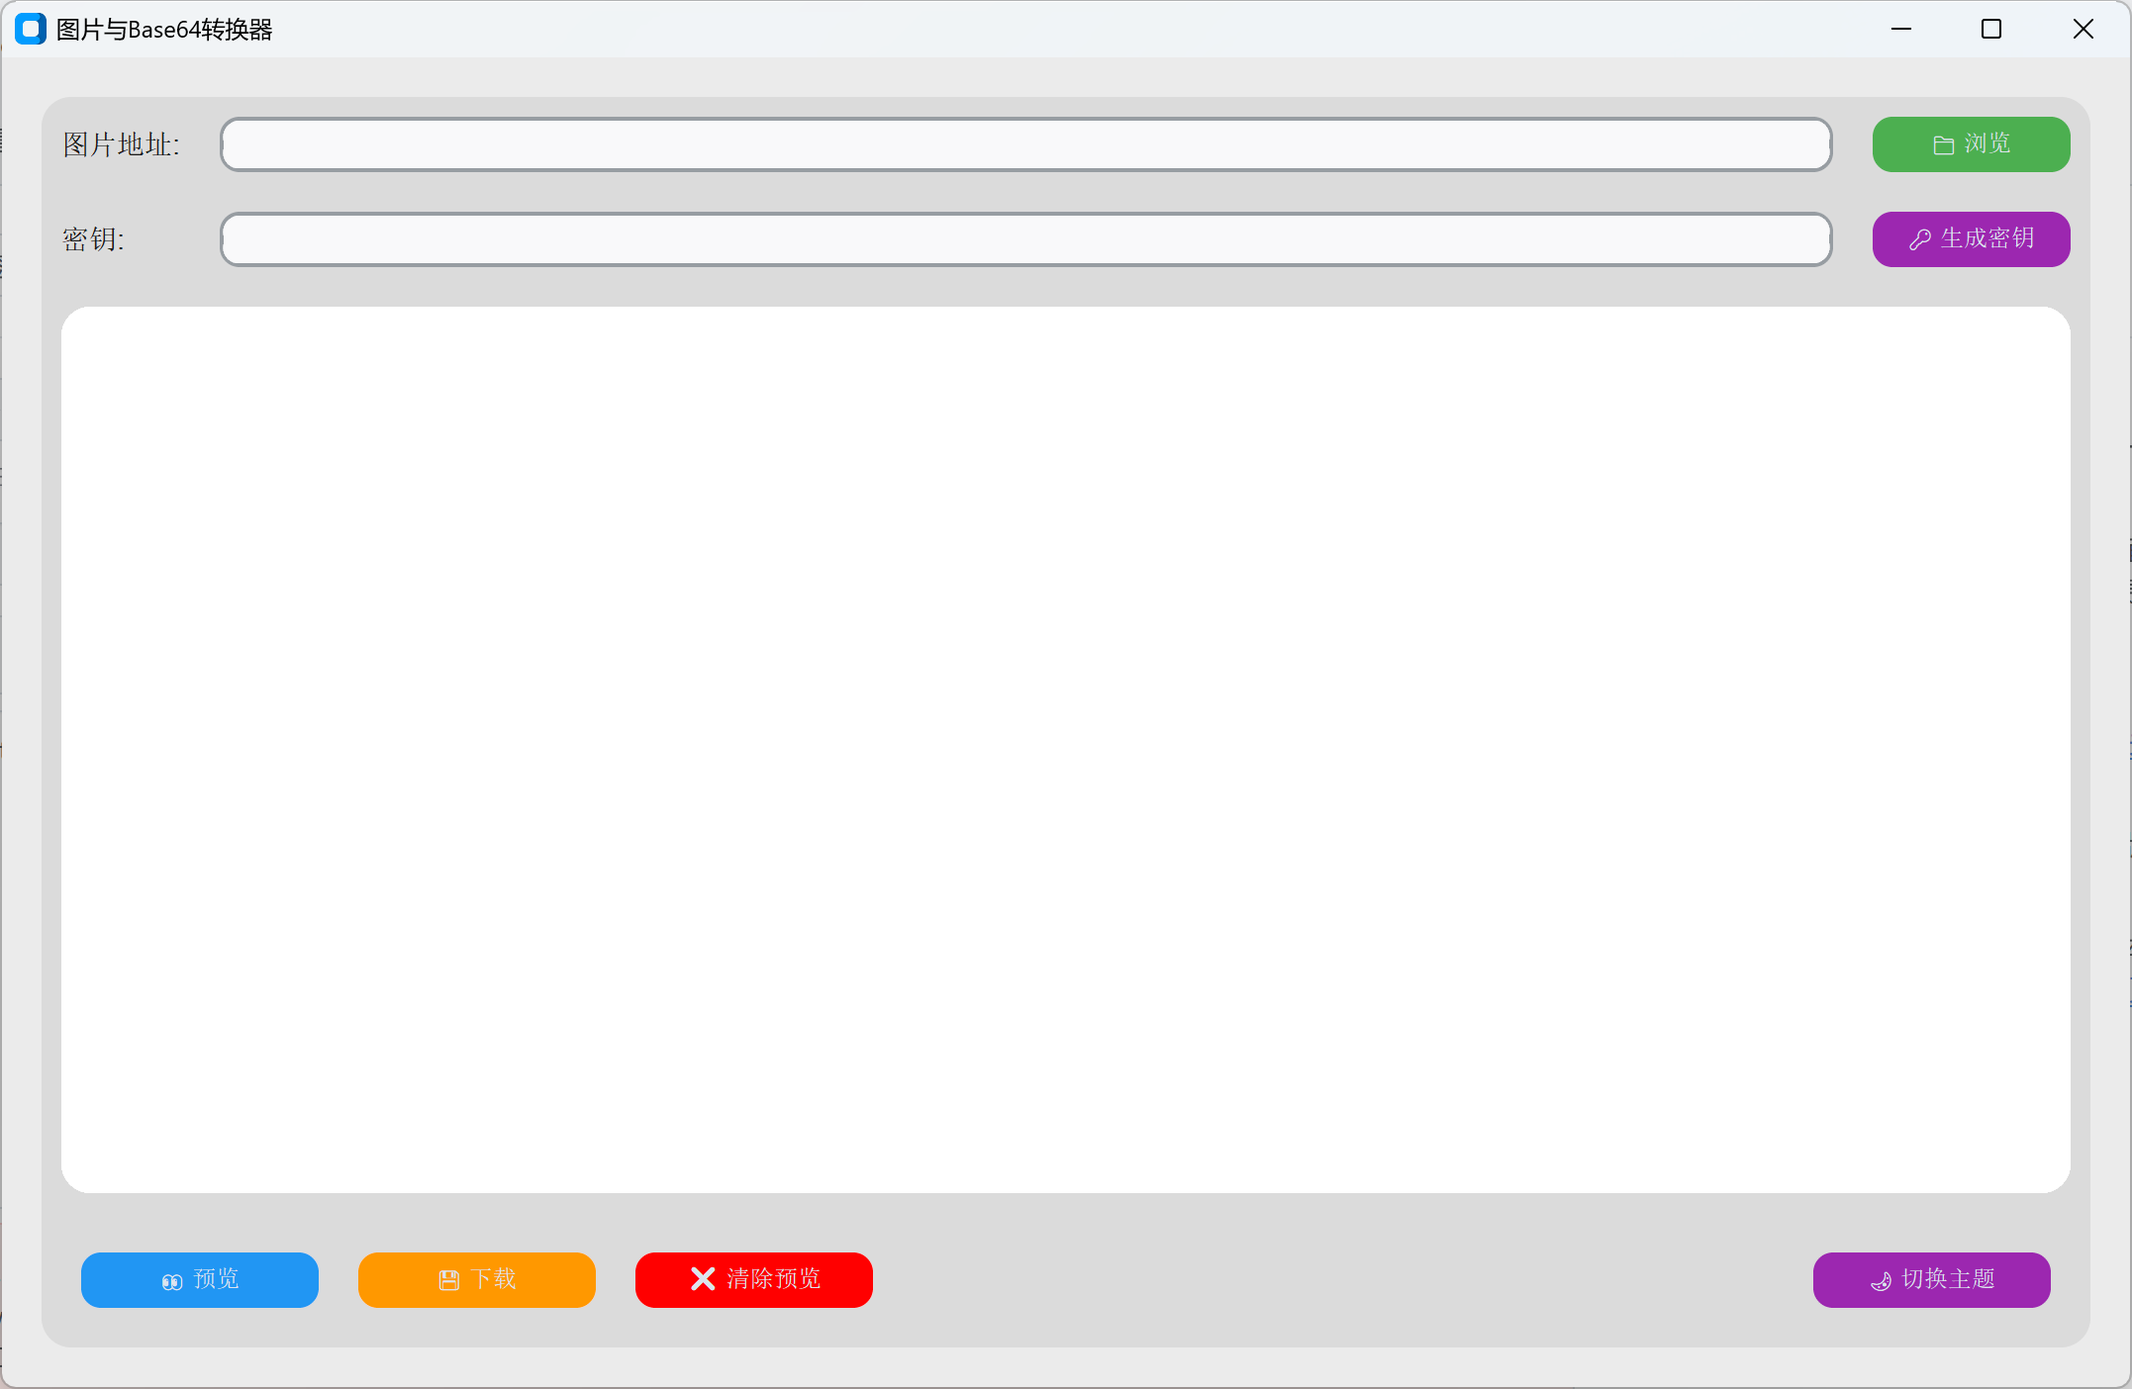
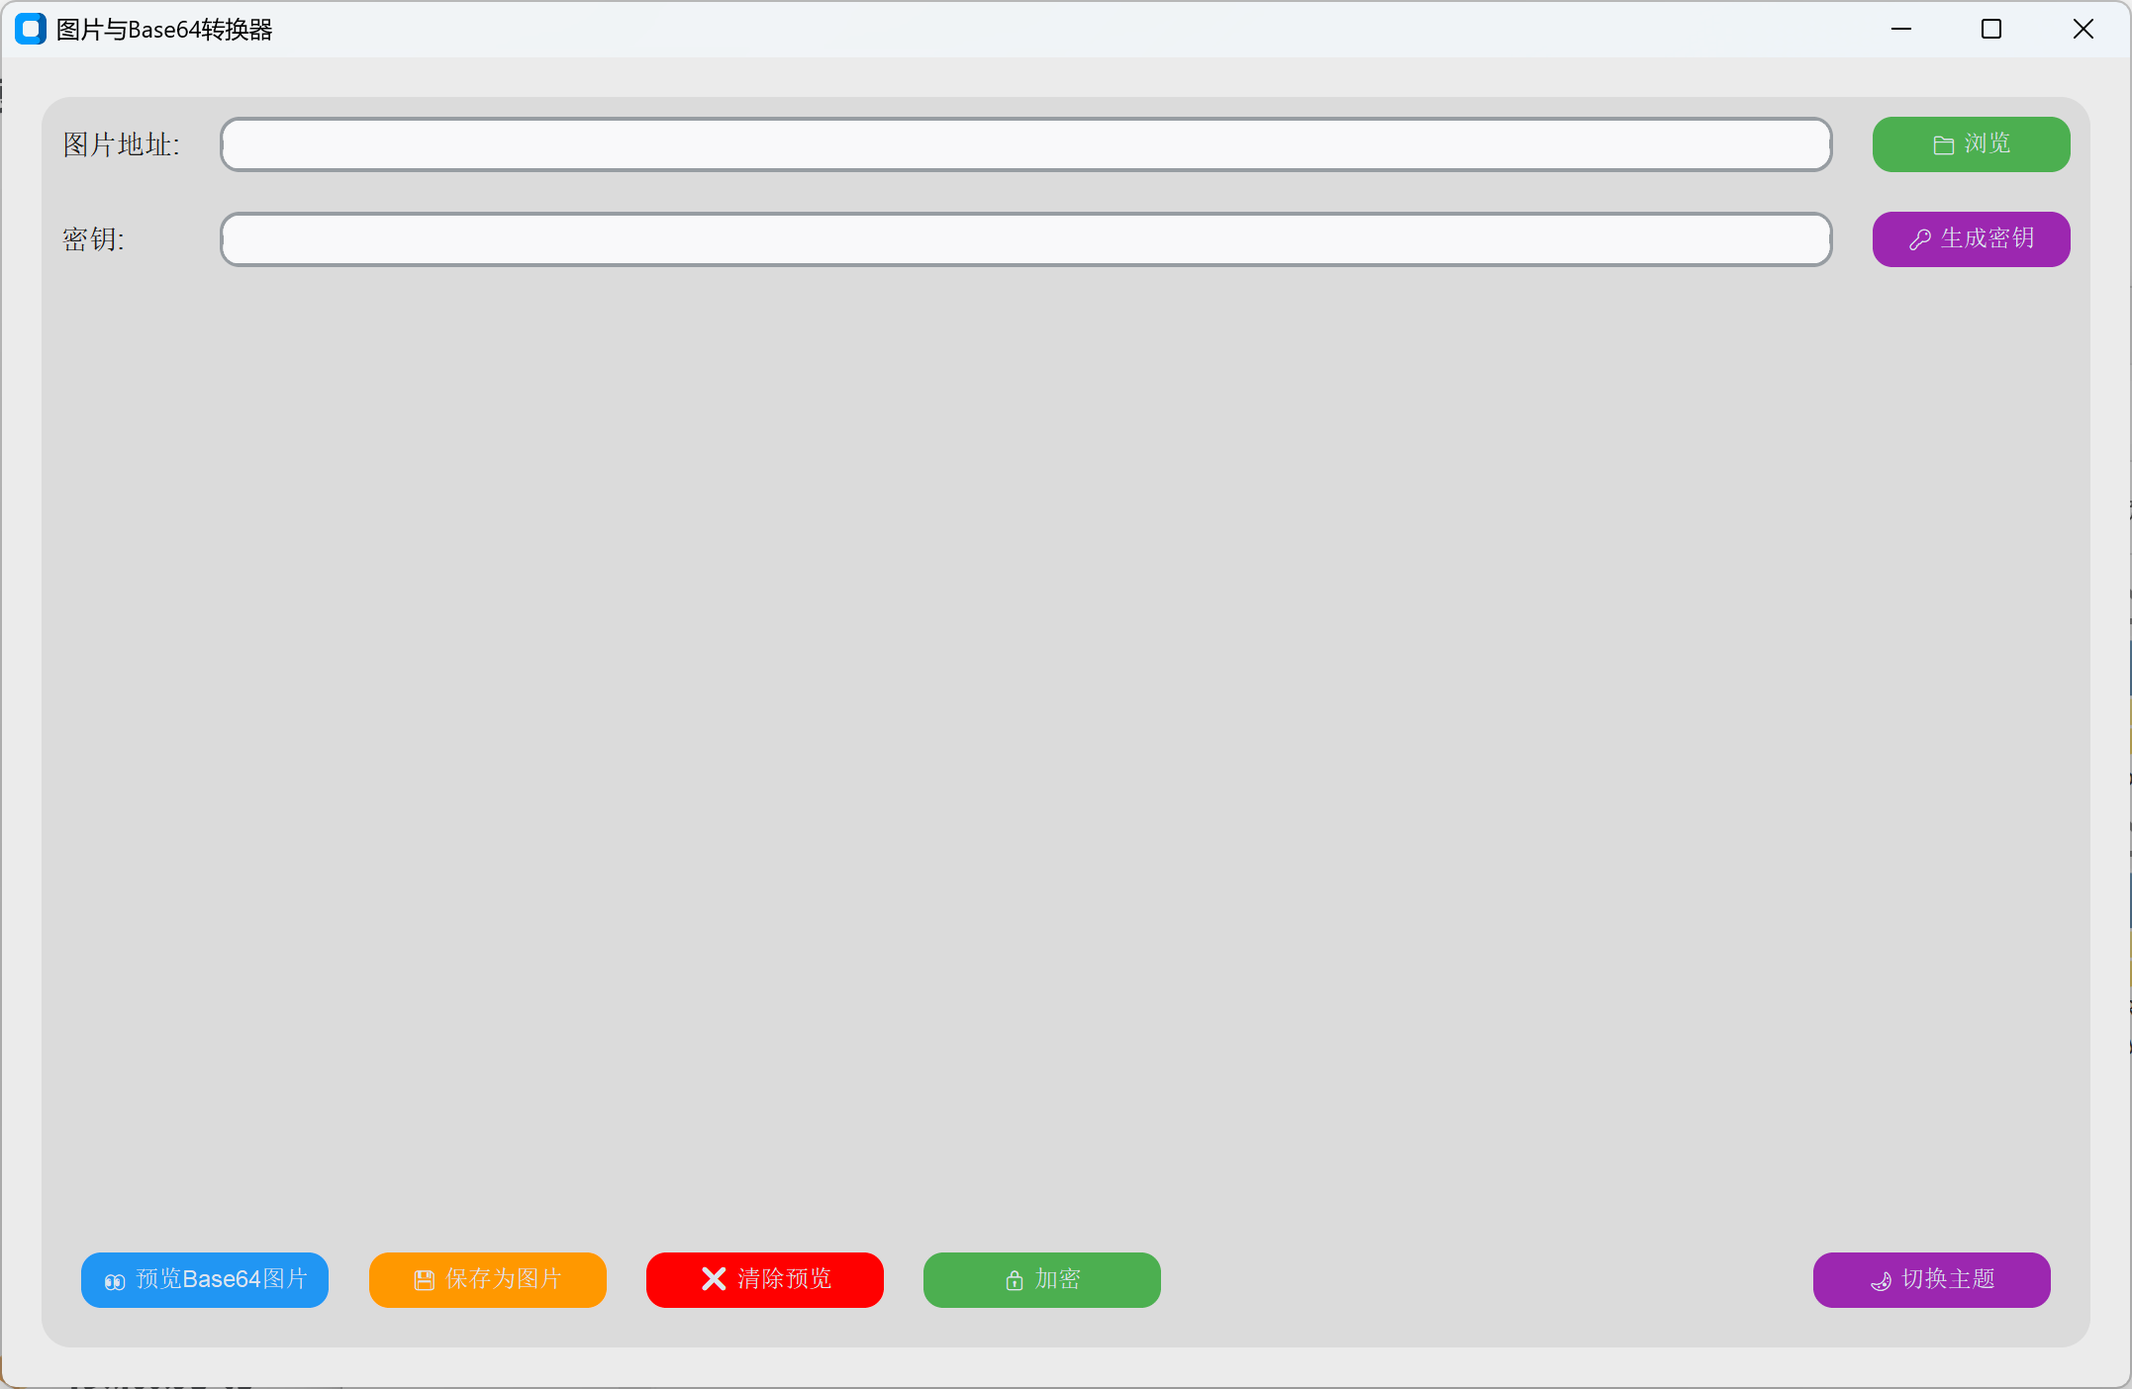
Add files via upload

diff --git a/main.py b/main.py
@@ -1,0 +1,367 @@
+import base64
+import io
+import os
+from PIL import Image, ImageTk
+import customtkinter as ctk
+from tkinter import filedialog, messagebox
+from Crypto.Cipher import AES
+from Crypto.Util.Padding import pad, unpad
+from Crypto.Random import get_random_bytes
+
+class ImageBase64Converter:
+    def __init__(self, root):
+        self.root = root
+        self.root.title("图片与Base64转换器")
+        self.file_path = ''
+
+        # 设置主题和颜色模式
+        ctk.set_appearance_mode("System")  # 可选：System, Dark, Light
+        ctk.set_default_color_theme("blue")  # 可选：blue, green, dark-blue
+
+        # 获取显示器分辨率
+        screen_width = self.root.winfo_screenwidth()
+        screen_height = self.root.winfo_screenheight()
+
+        # 设置窗口初始大小为显示器分辨率的 70%
+        self.window_width = int(screen_width * 0.7)
+        self.window_height = int(screen_height * 0.7)
+        self.root.geometry(f"{self.window_width}x{self.window_height}")
+
+        # 存储原始图片和调整后的图片
+        self.original_image = None
+        self.resized_image = None
+
+        # 设置图片的最小和最大显示尺寸
+        self.min_image_size = 100  # 最小显示尺寸（宽度或高度）
+        self.max_image_size = 800  # 最大显示尺寸（宽度或高度）
+
+        # 创建 UI 组件
+        self.create_widgets()
+
+        # 绑定窗口大小变化事件
+        self.root.bind("<Configure>", self.resize_ui)
+
+    def create_widgets(self):
+        """创建并初始化 UI 组件"""
+        # 主容器
+        self.main_frame = ctk.CTkFrame(self.root, corner_radius=15)
+        self.main_frame.pack(fill="both", expand=True, padx=20, pady=20)
+
+        # 图片地址输入栏
+        self.image_path_label = ctk.CTkLabel(self.main_frame, text="图片地址:", font=("Arial", 14))
+        self.image_path_label.grid(row=0, column=0, padx=10, pady=10, sticky="w")
+
+        self.image_path_entry = ctk.CTkEntry(self.main_frame, font=("Arial", 12), width=400, corner_radius=10)
+        self.image_path_entry.grid(row=0, column=1, padx=10, pady=10, sticky="ew")
+
+        self.browse_button = ctk.CTkButton(
+            self.main_frame, text="📁 浏览", command=self.browse_image, font=("Arial", 12), width=100, corner_radius=10,
+            fg_color="#4CAF50", hover_color="#45a049"
+        )
+        self.browse_button.grid(row=0, column=2, padx=10, pady=10)
+
+        # 密钥输入栏
+        self.key_label = ctk.CTkLabel(self.main_frame, text="密钥:", font=("Arial", 14))
+        self.key_label.grid(row=1, column=0, padx=10, pady=10, sticky="w")
+
+        self.key_entry = ctk.CTkEntry(self.main_frame, font=("Arial", 12), width=400, corner_radius=10, show="")
+        self.key_entry.grid(row=1, column=1, padx=10, pady=10, sticky="ew")
+
+        self.generate_key_button = ctk.CTkButton(
+            self.main_frame, text="🔑 生成密钥", command=self.generate_key, font=("Arial", 12), width=100, corner_radius=10,
+            fg_color="#9C27B0", hover_color="#8e24aa"
+        )
+        self.generate_key_button.grid(row=1, column=2, padx=10, pady=10)
+
+        # 显示图片的区域
+        self.image_label = ctk.CTkLabel(
+            self.main_frame, text="", width=self.window_width - 40, height=self.window_height - 200, corner_radius=15
+        )
+        self.image_label.grid(row=2, column=0, columnspan=3, padx=10, pady=10, sticky="nsew")
+
+        # 动态设置图片显示区域的背景颜色
+        # self.update_image_label_theme()
+
+        # 按钮区域
+        self.button_frame = ctk.CTkFrame(self.main_frame, corner_radius=15, fg_color="transparent")
+        self.button_frame.grid(row=3, column=0, columnspan=3, padx=10, pady=10, sticky="ew")
+
+        self.preview_button = ctk.CTkButton(
+            self.button_frame, text="👀 预览Base64图片", command=self.preview_image, font=("Arial", 12), width=120, corner_radius=10,
+            fg_color="#2196F3", hover_color="#1e88e5"
+        )
+        self.preview_button.pack(side="left", padx=10, pady=10)
+
+        self.download_button = ctk.CTkButton(
+            self.button_frame, text="💾 保存为图片", command=self.download_image, font=("Arial", 12), width=120, corner_radius=10,
+            fg_color="#FF9800", hover_color="#fb8c00"
+        )
+        self.download_button.pack(side="left", padx=10, pady=10)
+
+        # 清除预览按钮
+        self.clear_button = ctk.CTkButton(
+            self.button_frame, text="❌ 清除预览", command=self.clear_preview, font=("Arial", 12), width=120, corner_radius=10,
+            fg_color="#FF0000", hover_color="#cc0000"
+        )
+        self.clear_button.pack(side="left", padx=10, pady=10)
+
+        # 开始加密
+        self.encrypt_button = ctk.CTkButton(
+            self.button_frame, text="🔒 加密", command=self.encrypt_image, font=("Arial", 12), width=120, corner_radius=10,
+            fg_color="#4CAF50", hover_color="#45a049"
+        )
+        self.encrypt_button.pack(side="left", padx=10, pady=10)
+
+        # 主题切换按钮
+        self.theme_button = ctk.CTkButton(
+            self.button_frame, text="🌙 切换主题", command=self.toggle_theme, font=("Arial", 12), width=120, corner_radius=10,
+            fg_color="#9C27B0", hover_color="#8e24aa"
+        )
+        self.theme_button.pack(side="right", padx=10, pady=10)
+
+        # 配置网格布局的权重
+        self.main_frame.grid_columnconfigure(1, weight=1)
+        self.main_frame.grid_rowconfigure(2, weight=1)
+
+    def clear_preview(self):
+        """清除预览的图片"""
+        self.original_image = None
+        self.resized_image = None
+        self.image_label.configure(image=None)  # 清除显示的图片
+        self.image_label.image = None  # 清除图片引用
+        messagebox.showinfo("提示", "预览已清除！")
+
+    def encrypt_image(self):
+        """加密图片"""
+        if self.file_path:
+            # 加密并保存加密后的图片
+            self.convert_image_to_base64(self.file_path)
+            # messagebox.showinfo("提示", "图片加密成功！")
+        else:
+            messagebox.showwarning("警告", "请先选择图片！")
+            
+    # def update_image_label_theme(self):
+    #     """根据当前主题更新图片显示区域的背景颜色"""
+    #     current_mode = ctk.get_appearance_mode()
+    #     if current_mode == "Light":
+    #         self.image_label.configure(fg_color="#ffffff", text_color="#000000")  # 浅色主题
+    #     else:
+    #         self.image_label.configure(fg_color="#2e2e2e", text_color="#ffffff")  # 深色主题
+
+    def resize_ui(self, event=None):
+        """根据窗口大小动态调整 UI 布局"""
+        window_width = self.root.winfo_width()
+        window_height = self.root.winfo_height()
+
+        # 调整图片显示区域的大小
+        self.image_label.configure(width=window_width - 40, height=window_height - 200)
+
+    def browse_image(self):
+        """浏览并选择图片文件"""
+        file_path = filedialog.askopenfilename(filetypes=[("Image Files", "*.png;*.jpg;*.jpeg;*.bmp;*.gif")])
+        if file_path:
+            self.file_path = file_path
+        else:
+            return
+        file_size = os.path.getsize(self.file_path) / (1024 * 1024)  # 文件大小（MB）
+        if file_size > 10:  # 限制图片大小为 10MB
+            messagebox.showwarning("警告", "图片文件过大，可能发生卡顿。")
+        self.image_path_entry.delete(0, "end")
+        self.image_path_entry.insert(0, self.file_path)
+
+    def generate_key(self):
+        """生成随机密钥"""
+        key = get_random_bytes(16)  # 生成 16 字节的随机密钥
+        self.key_entry.delete(0, "end")
+        self.key_entry.insert(0, key.hex())  # 以十六进制显示密钥
+
+    def encrypt_data(self, data, key):
+        """使用 AES 加密数据"""
+        cipher = AES.new(key, AES.MODE_CBC)
+        ct_bytes = cipher.encrypt(pad(data, AES.block_size))
+        return cipher.iv + ct_bytes  # 返回 IV + 密文
+
+    def decrypt_data(self, encrypted_data, key):
+        """使用 AES 解密数据"""
+        iv = encrypted_data[:AES.block_size]  # 提取 IV
+        ct = encrypted_data[AES.block_size:]  # 提取密文
+        cipher = AES.new(key, AES.MODE_CBC, iv)
+        return unpad(cipher.decrypt(ct), AES.block_size)  # 返回解密后的数据
+
+    def get_key(self):
+        """获取密钥"""
+        key = self.key_entry.get().strip()
+        if not key:
+            return None  # 没有输入密钥时返回 None
+        if len(key) != 32:  # 128 位密钥
+            messagebox.showwarning("警告", "密钥长度必须为 32 个字符！")
+            return 'wrong'
+        try:
+            key_b = bytes.fromhex(key)
+            return key_b
+        except ValueError:
+            messagebox.showwarning("警告", "密钥必须是有效的十六进制字符串！")
+            return 'wrong'
+
+    def convert_image_to_base64(self, image_path):
+        """将图片转换为Base64代码并保存到用户选择的位置"""
+        try:
+            with open(image_path, "rb") as image_file:
+                image_data = image_file.read()
+
+            key = self.get_key()
+            if key is None:
+                # 如果没有密钥，则直接进行 Base64 编码
+                base64_code = base64.b64encode(image_data).decode("utf-8")
+            elif key == 'wrong':
+                return
+            else:
+                # 如果有密钥，则加密图片数据
+                encrypted_data = self.encrypt_data(image_data, key)
+                base64_code = base64.b64encode(encrypted_data).decode("utf-8")
+                
+            # 获取图片文件名（不含扩展名）
+            image_name = os.path.splitext(os.path.basename(image_path))[0]
+
+            # 弹出文件保存对话框，让用户选择保存位置
+            save_path = filedialog.asksaveasfilename(
+                defaultextension=".txt",
+                filetypes=[("Text Files", "*.txt")],
+                title="保存 Base64 代码",
+                initialfile=image_name  # 自动填充图片文件名
+            )
+            if save_path:
+                with open(save_path, "w") as file:
+                    file.write(base64_code)
+                messagebox.showinfo("成功", f"Base64 代码已保存到：\n{save_path}")
+
+        except Exception as e:
+            messagebox.showerror("错误", f"无法读取图片: {e}")
+
+    def preview_image(self):
+        """从用户选择的文件读取Base64代码并显示图片"""
+        try:
+            # 打开文件选择对话框，让用户选择保存的 Base64 文件
+            self.file_path = filedialog.askopenfilename(filetypes=[("Text Files", "*.txt")])
+            if not self.file_path:
+                return
+
+            # 读取文件内容
+            with open(self.file_path, "r") as file:
+                base64_code = file.read().strip()
+
+            # 获取密钥
+            key = self.get_key()
+            if key is None:
+                # 如果没有密钥，则直接进行 Base64 解码
+                decrypted_data = base64.b64decode(base64_code)
+            elif(key == 'wrong'):
+                return
+            else:
+                # 如果有密钥，则解密数据
+                encrypted_data = base64.b64decode(base64_code)
+                decrypted_data = self.decrypt_data(encrypted_data, key)
+                
+
+            # 显示图片
+            self.original_image = Image.open(io.BytesIO(decrypted_data))
+            self.resize_image()  # 初始调整图片大小
+        except Exception as e:
+            messagebox.showerror("错误", f"无法显示图片: {e}")
+
+    def download_image(self):
+        """下载Base64代码对应的图片"""
+        try:
+            if self.original_image is None:
+                # 打开文件选择对话框，让用户选择保存的 Base64 文件
+                self.file_path = filedialog.askopenfilename(filetypes=[("Text Files", "*.txt")])
+                if not self.file_path:
+                    return
+
+                # 读取文件内容
+                with open(self.file_path, "r") as file:
+                    base64_code = file.read().strip()
+
+                # 获取密钥
+                key = self.get_key()
+                if key is None:
+                    # 如果没有密钥，则直接进行 Base64 解码
+                    decrypted_data = base64.b64decode(base64_code)
+                elif(key == 'wrong'):
+                    return
+                else:
+                    # 如果有密钥，则解密数据
+                    encrypted_data = base64.b64decode(base64_code)
+                    decrypted_data = self.decrypt_data(encrypted_data, key)
+                    
+
+                # 获取文件名（不含扩展名）
+                file_name = os.path.splitext(os.path.basename(self.file_path))[0]
+
+                # 保存图片
+                save_path = filedialog.asksaveasfilename(
+                    defaultextension=".png",
+                    filetypes=[("PNG Files", "*.png"), ("JPEG Files", "*.jpg")],
+                    title="保存图片",
+                    initialfile=file_name  # 自动填充文件名
+                )
+                if save_path:
+                    with open(save_path, "wb") as image_file:
+                        image_file.write(decrypted_data)
+                    messagebox.showinfo("成功", "图片下载成功！")
+            else:
+                # 弹出文件保存对话框
+                save_path = filedialog.asksaveasfilename(
+                    defaultextension=".png",
+                    filetypes=[("PNG Files", "*.png"), ("JPEG Files", "*.jpg"), ("All Files", "*.*")],
+                    title="保存图片"
+                )
+                if not save_path:  # 用户取消保存
+                    return
+
+                # 保存图片
+                self.original_image.save(save_path)
+                messagebox.showinfo("成功", f"图片已保存到：\n{save_path}")
+        except Exception as e:
+            messagebox.showerror("错误", f"无法下载图片: {e}")
+
+    def resize_image(self, event=None):
+        """根据窗口大小动态调整图片尺寸"""
+        if self.original_image:
+            # 获取窗口的当前大小
+            window_width = self.root.winfo_width()
+            window_height = self.root.winfo_height()
+
+            # 计算图片的最大显示尺寸（留出一些边距）
+            max_width = window_width - 40
+            max_height = window_height - 200  # 留出输入栏和按钮的空间
+
+            # 限制图片的最大和最小显示尺寸
+            max_width = min(max_width, self.max_image_size)
+            max_height = min(max_height, self.max_image_size)
+            max_width = max(max_width, self.min_image_size)
+            max_height = max(max_height, self.min_image_size)
+
+            # 保持宽高比调整图片大小
+            self.resized_image = self.original_image.copy()
+            self.resized_image.thumbnail((max_width, max_height), Image.Resampling.LANCZOS)
+
+            # 显示调整后的图片
+            photo = ImageTk.PhotoImage(self.resized_image)
+            self.image_label.configure(image=photo)
+            self.image_label.image = photo  # 保持引用，避免被垃圾回收
+
+    def toggle_theme(self):
+        """切换主题"""
+        current_mode = ctk.get_appearance_mode()
+        if current_mode == "Light":
+            ctk.set_appearance_mode("Dark")
+        else:
+            ctk.set_appearance_mode("Light")
+        # 更新图片显示区域的背景颜色
+        # self.update_image_label_theme()
+
+if __name__ == "__main__":
+    root = ctk.CTk()
+    app = ImageBase64Converter(root)
+    root.mainloop()
